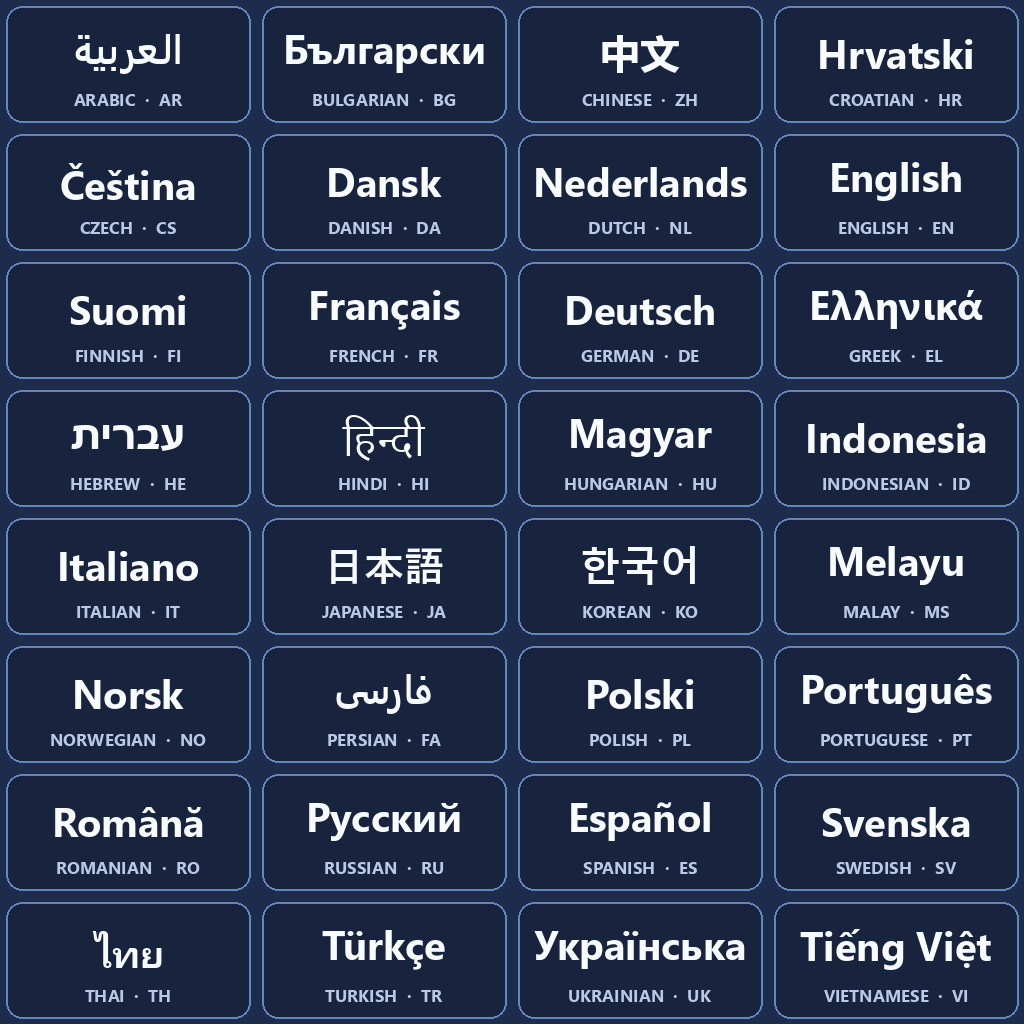
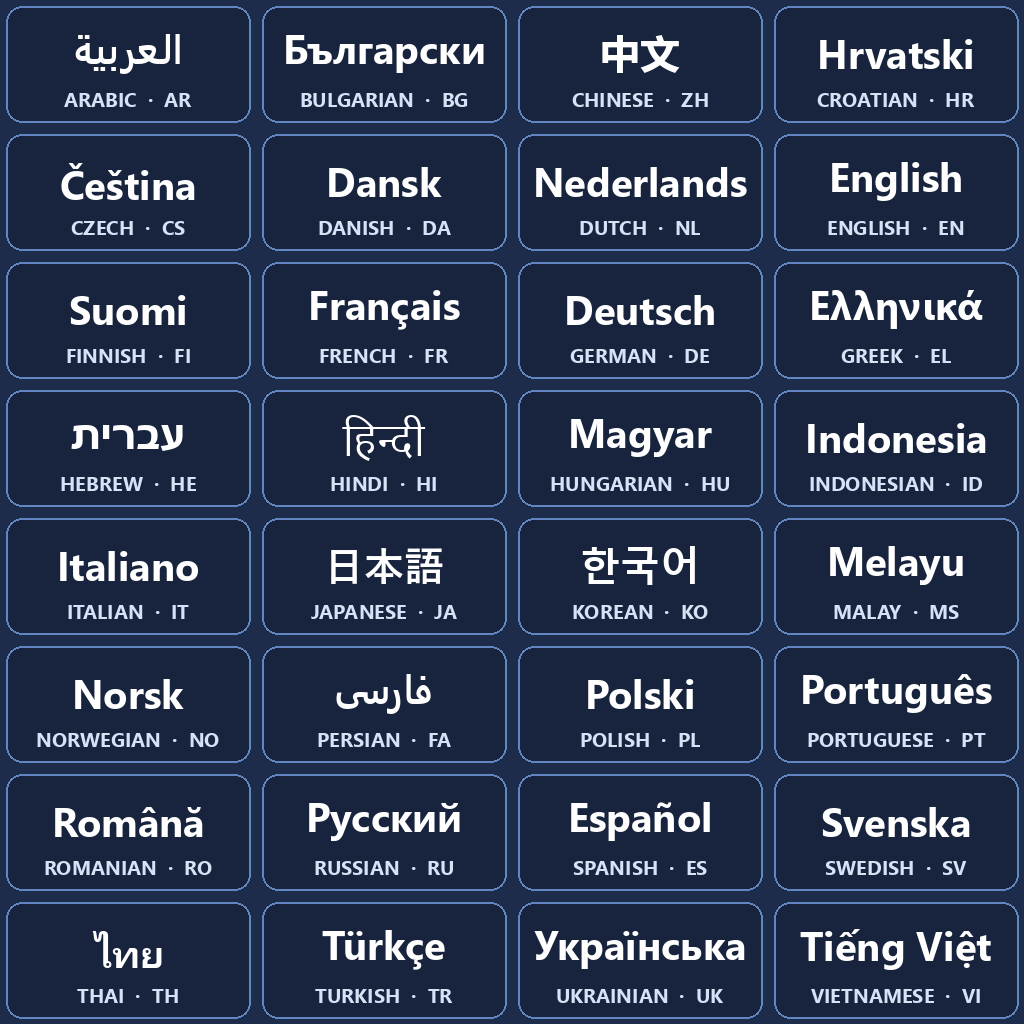
HUD v2: larger, higher-contrast labels; bigger bar

diff --git a/hud/v2/make_hud_v2.py b/hud/v2/make_hud_v2.py
@@ -45,8 +45,8 @@ EDGE = (96, 150, 225)
 ACCENT = (86, 176, 255)
 GREEN = (64, 224, 160)
 RED = (255, 92, 92)
-TEXT = (248, 251, 255)
-MUTED = (186, 202, 230)
+TEXT = (255, 255, 255)
+MUTED = (214, 226, 246)
 BTN = (62, 86, 134)
 BTN_EDGE = (110, 146, 206)
 WIN = (24, 36, 62)
@@ -90,7 +90,7 @@ def draw_cell(d, x0, y0, code, english, native):
     f = fit_font(d, native, fname, idx, 222, 40, 18, **kw)
     center_text(d, x0 + 128, y0 + 54, native, f, TEXT + (255,), **kw)
     center_text(d, x0 + 128, y0 + 100, f"{english.upper()}  ·  {code.upper()}",
-                font("segoeuib.ttf", 17), MUTED + (255,))
+                font("segoeuib.ttf", 20), MUTED + (255,))
 
 
 def render_langs():
@@ -141,13 +141,13 @@ def dual_icon(d, cx, cy, color, fill_second):
 
 def lang_block(d, x0, x1, win, caption, hint):
     button(d, x0, x1, 14, 242)
-    center_text(d, (x0 + x1) / 2, 40, caption, font("segoeuib.ttf", 22), MUTED + (255,))
+    center_text(d, (x0 + x1) / 2, 42, caption, font("segoeuib.ttf", 30), TEXT + (255,))
     wx0, wy0, wx1, wy1 = win
     d.rounded_rectangle((wx0, wy0, wx1, wy1), radius=16, fill=WIN + (255,), outline=WIN_EDGE + (255,), width=2)
     center_text(d, (wx0 + wx1) / 2, (wy0 + wy1) / 2, "—", font("segoeuib.ttf", 34), MUTED + (255,))
     cx, cy = (wx1 + x1) / 2, (wy0 + wy1) / 2
-    d.polygon([(cx - 13, cy - 7), (cx + 13, cy - 7), (cx, cy + 9)], fill=ACCENT + (255,))
-    center_text(d, (x0 + x1) / 2, 205, hint, font("segoeui.ttf", 20), MUTED + (255,))
+    d.polygon([(cx - 16, cy - 9), (cx + 16, cy - 9), (cx, cy + 11)], fill=ACCENT + (255,))
+    center_text(d, (x0 + x1) / 2, 208, hint, font("seguisb.ttf", 28), MUTED + (255,))
 
 
 def render_bar(on, dual):
@@ -163,17 +163,17 @@ def render_bar(on, dual):
     d = ImageDraw.Draw(img)
     button(d, POWER[0], POWER[1], 14, 242, fill=mix(BTN, state, 0.16), edge=state, width=3)
     cx = (POWER[0] + POWER[1]) / 2
-    center_text(d, cx, 40, "POWER", font("segoeuib.ttf", 20), MUTED + (255,))
-    power_icon(d, cx, 118, 36, state)
-    center_text(d, cx, 200, "ON" if on else "OFF", font("segoeuib.ttf", 32), state + (255,))
+    center_text(d, cx, 40, "POWER", font("segoeuib.ttf", 27), TEXT + (255,))
+    power_icon(d, cx, 116, 36, state)
+    center_text(d, cx, 200, "ON" if on else "OFF", font("segoeuib.ttf", 44), state + (255,))
 
-    lang_block(d, MY[0], MY[1], WIN_MY, "MY LANGUAGE", "what I read")
-    lang_block(d, SEND[0], SEND[1], WIN_SEND, "SEND LANGUAGE", "what I send")
+    lang_block(d, MY[0], MY[1], WIN_MY, "MY LANGUAGE", "I read")
+    lang_block(d, SEND[0], SEND[1], WIN_SEND, "SEND LANGUAGE", "I send")
 
     # swap
     button(d, SWAP[0], SWAP[1], 78, 162)
-    center_text(d, (SWAP[0] + SWAP[1]) / 2, 116, "⇄", font("seguisym.ttf", 40), TEXT + (255,))
-    center_text(d, (SWAP[0] + SWAP[1]) / 2, 186, "SWAP", font("segoeuib.ttf", 15), MUTED + (255,))
+    center_text(d, (SWAP[0] + SWAP[1]) / 2, 116, "⇄", font("seguisym.ttf", 44), TEXT + (255,))
+    center_text(d, (SWAP[0] + SWAP[1]) / 2, 190, "SWAP", font("segoeuib.ttf", 19), TEXT + (255,))
 
     # dual
     dcol = ACCENT if dual else MUTED
@@ -183,19 +183,19 @@ def render_bar(on, dual):
     button(d, DUAL[0], DUAL[1], 14, 242,
            fill=mix(BTN, ACCENT, 0.18) if dual else BTN, edge=ACCENT if dual else BTN_EDGE, width=3 if dual else 2)
     cx = (DUAL[0] + DUAL[1]) / 2
-    center_text(d, cx, 40, "DUAL", font("segoeuib.ttf", 22), (TEXT if dual else MUTED) + (255,))
-    dual_icon(d, cx, 112, dcol, dual)
-    center_text(d, cx, 176, "original", font("segoeui.ttf", 17), MUTED + (255,))
-    center_text(d, cx, 198, "+ translation", font("segoeui.ttf", 17), MUTED + (255,))
-    center_text(d, cx, 226, "ON" if dual else "OFF", font("segoeuib.ttf", 17), dcol + (255,))
+    center_text(d, cx, 40, "DUAL", font("segoeuib.ttf", 30), TEXT + (255,))
+    dual_icon(d, cx, 108, dcol, dual)
+    center_text(d, cx, 166, "orig +", font("seguisb.ttf", 22), MUTED + (255,))
+    center_text(d, cx, 189, "transl.", font("seguisb.ttf", 22), MUTED + (255,))
+    center_text(d, cx, 222, "ON" if dual else "OFF", font("segoeuib.ttf", 26), (ACCENT if dual else TEXT) + (255,))
 
     # status
     button(d, STATUS[0], STATUS[1], 14, 242)
     cx = (STATUS[0] + STATUS[1]) / 2
-    center_text(d, cx, 40, "STATUS", font("segoeuib.ttf", 19), MUTED + (255,))
-    shield_icon(d, cx, 116, 30, ACCENT)
-    center_text(d, cx, 186, "license", font("segoeui.ttf", 17), MUTED + (255,))
-    center_text(d, cx, 208, "& days left", font("segoeui.ttf", 15), MUTED + (255,))
+    center_text(d, cx, 40, "STATUS", font("segoeuib.ttf", 23), TEXT + (255,))
+    shield_icon(d, cx, 114, 32, ACCENT)
+    center_text(d, cx, 182, "license", font("seguisb.ttf", 22), MUTED + (255,))
+    center_text(d, cx, 208, "& days", font("seguisb.ttf", 22), MUTED + (255,))
     return img
 
 
